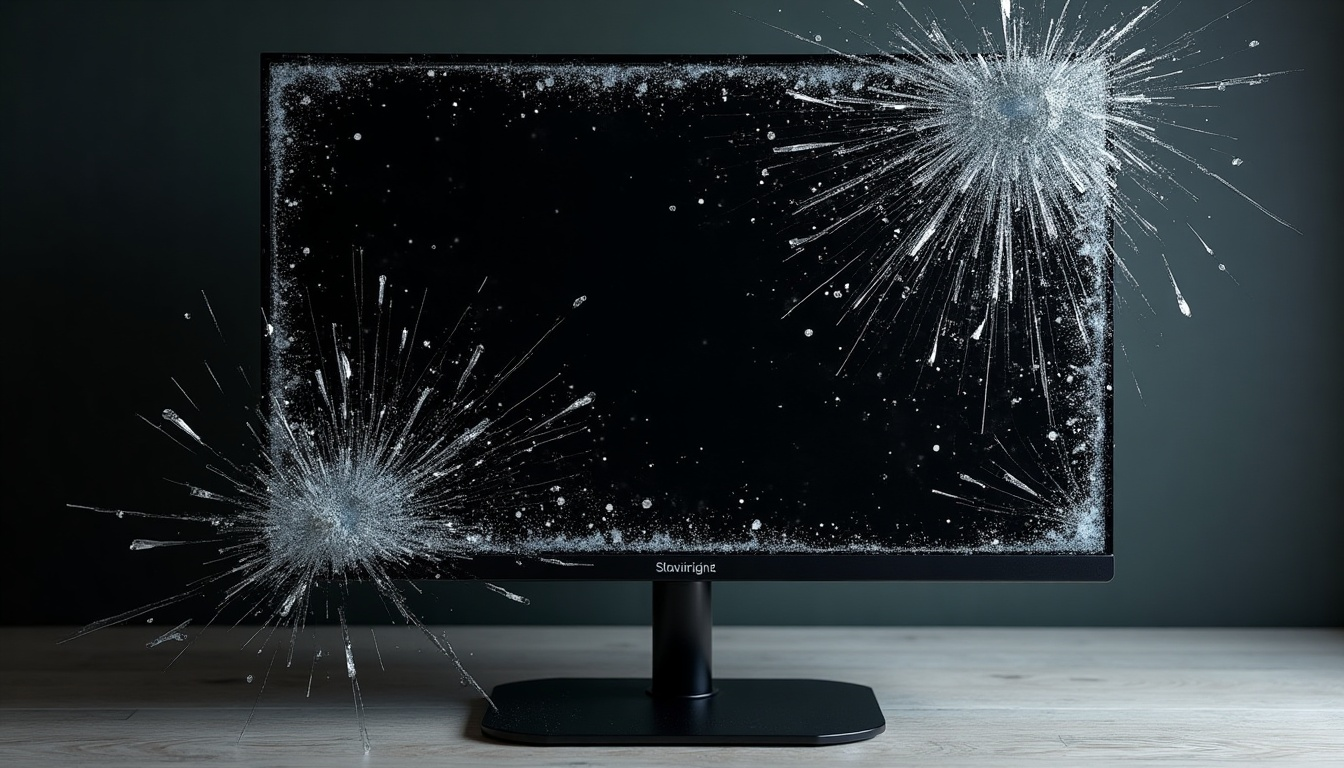
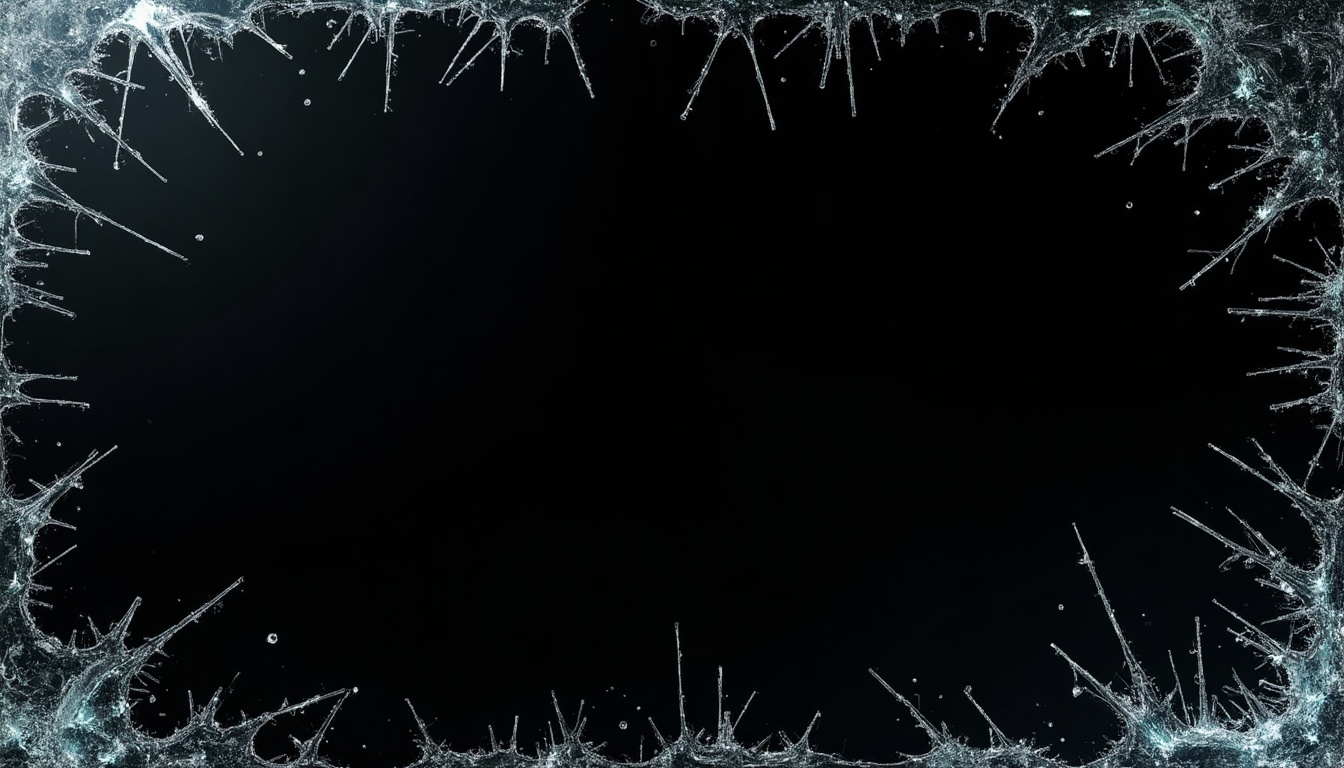
feat(wallpapers): add interface-style screen wallpapers 16-26
- Extend fal.ai generator WALLPAPERS array with radar, hacker terminal,
  fake video call, fake update (Windows 10/XP, macOS, Ubuntu, ChromeOS),
  DVD screensaver, flip-clock, and Matrix rain prompts
- Persist regenerated screens 02-04 and add screens 05-26 PNGs (16:9)
- Update scripts/README.md index table and prompt-style guidelines
  (screen effects OR interfaces, no device/bezel/frame)

diff --git a/scripts/README.md b/scripts/README.md
@@ -51,7 +51,18 @@ Images are written as `NN-<slug>.png` (1344x768, 16:9) into
 | 13 | `13-water-damage.png` |
 | 14 | `14-crushed-lcd.png` |
 | 15 | `15-black-screen-of-death.png` |
+| 16 | `16-radar.png` |
+| 17 | `17-hacker-simulator.png` |
+| 18 | `18-fake-video-call.png` |
+| 19 | `19-fake-update-windows10.png` |
+| 20 | `20-fake-update-windows-xp.png` |
+| 21 | `21-fake-update-mac.png` |
+| 22 | `22-fake-update-ubuntu.png` |
+| 23 | `23-fake-update-chromeos.png` |
+| 24 | `24-dvd-screensaver.png` |
+| 25 | `25-flip-clock-screensaver.png` |
+| 26 | `26-matrix-screensaver.png` |
 
-Prompts are written as **pure flat screen effects** (crack, glitch, static, etc.) filling the frame edge-to-edge — no monitor, device, bezel, frame, UI, icons, or text, so images work as direct wallpapers for any laptop or screen.
+Prompts are written as **pure flat screen effects or interfaces** (crack, glitch, static, terminal, update screen, screensaver, etc.) filling the frame edge-to-edge — no monitor, device, bezel, or frame, so images work as direct wallpapers for any laptop or screen.
 
 To edit a prompt, open the `WALLPAPERS` array at the top of the script.
